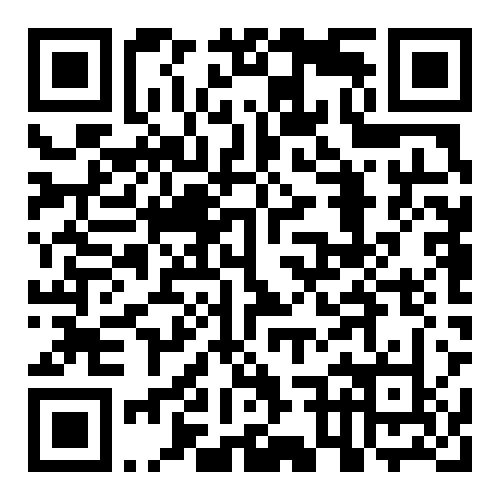
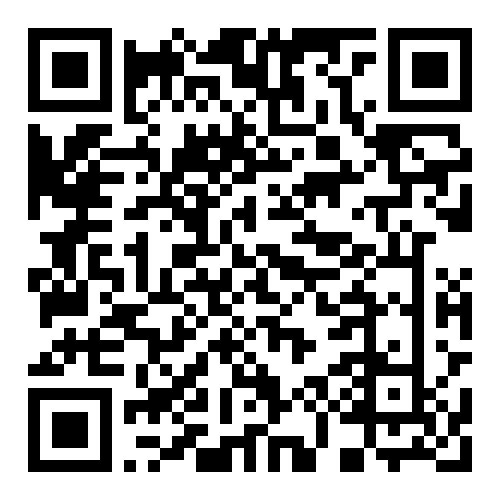
hyun

diff --git a/index.html b/index.html
@@ -62,7 +62,7 @@
                         </div>
                         <div class="qr-code-wrapper1">
                             <a
-                                href="https://jongyoun3128.github.io/namecard-yookyungsook/"
+                                href="https://jongyoun3128.github.io/namecard-kwonyoungsang/"
                                 target="_blank"
                                 ><img src="images/qrcode.png" alt=""
                             /></a>
@@ -285,6 +285,50 @@
                             </button>
                         </a>
                     </div>
+                    <div class="business-card pointground">
+                        <h3>
+                            <img src="images/mall.png" alt="" />
+                        </h3>
+                        <p>
+                            포인트그라운드몰<br />
+                            브랜드/서비스 정보를 확인하세요
+                        </p>
+                        <div class="business-features">
+                            <span>✓ 공식 안내</span>
+                            <span>✓ 서비스 소개</span>
+                            <span>✓ 문의/상담</span>
+                        </div>
+                        <a
+                            href="http://pointground.kr/"
+                            target="_blank"
+                            class="business-link"
+                        >
+                            <button class="btn-business" id="pointground-btn">
+                                자세히 보기
+                            </button>
+                        </a>
+                    </div>
+                    <div class="business-card namecard">
+                        <h3>돈버는명함</h3>
+                        <p>
+                            매출을 만드는 명함 제작<br />
+                            홍보/예약/문의까지 한 번에 연결
+                        </p>
+                        <div class="business-features">
+                            <span>✓ QR/링크 연결</span>
+                            <span>✓ 맞춤 디자인</span>
+                            <span>✓ 빠른 제작</span>
+                        </div>
+                        <a
+                            href="https://jongyoun3128.github.io/namecard/"
+                            target="_blank"
+                            class="business-link"
+                        >
+                            <button class="btn-business" id="pointground-btn">
+                                자세히 보기
+                            </button>
+                        </a>
+                    </div>
                 </div>
             </section>
             <!-- QR 코드 섹션 -->
@@ -321,7 +365,7 @@
                             type="text"
                             id="shareUrl"
                             readonly
-                            value="https://jongyoun3128.github.io/namecard-yookyungsook/"
+                            value="https://jongyoun3128.github.io/namecard-kwonyoungsang/"
                         />
                         <button id="copyUrlBtn">
                             <i class="fas fa-copy"></i>

diff --git a/styles2.css b/styles2.css
@@ -301,7 +301,12 @@ html {
 .business-card.zeroking {
     border-color: #c91e1e;
 }
-
+.business-card.namecard {
+    border-color: #f37021;
+}
+.business-card.pointground {
+    border-color: #cfb53b;
+}
 .business-card:hover {
     transform: translateY(-15px);
     box-shadow: var(--shadow-xl);
@@ -432,4 +437,13 @@ html {
 
 .business-card.zeroking .btn-business {
     background: #c91e1e;
+}
+.business-card.namecard .btn-business {
+    background: #f37021;
+}
+.business-card.pointground .btn-business {
+    background: #cfb53b;
+}
+.namecard h3 {
+    color: #f37021;
 }

diff --git a/config.js b/config.js
@@ -42,7 +42,7 @@ const CARD_CONFIG = {
     share: {
         title: "손가비 회장 - 포인트그라운드",
         description: "포인트그라운드 손가비 회장의 디지털 명함입니다.",
-        url: "https://jongyoun3128.github.io/namecard-yookyungsook/", // 실제 배포 URL로 변경
+        url: "https://jongyoun3128.github.io/namecard-kwonyoungsang/", // 실제 배포 URL로 변경
     },
 };
 

diff --git a/style.css b/style.css
@@ -1065,7 +1065,9 @@ body {
     margin: 0 0 25px 0;
     padding: 0;
 }
-
+.namecard h3 {
+    color: #f37021;
+}
 .pricing-features li {
     padding: 10px 0;
     color: var(--text-primary);
@@ -1463,6 +1465,9 @@ body {
     }
     .action-buttons {
         padding: 0 40px 30px 40px;
+    }
+    .pointground img {
+        width: 100%;
     }
 }
 
